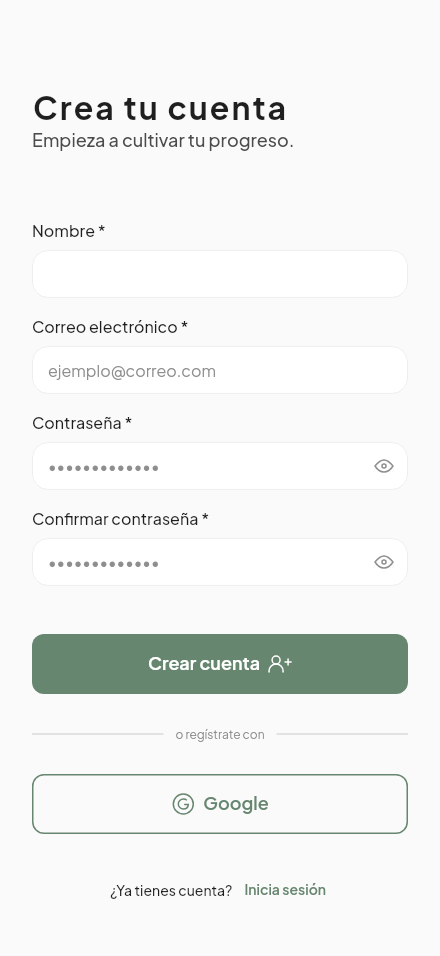
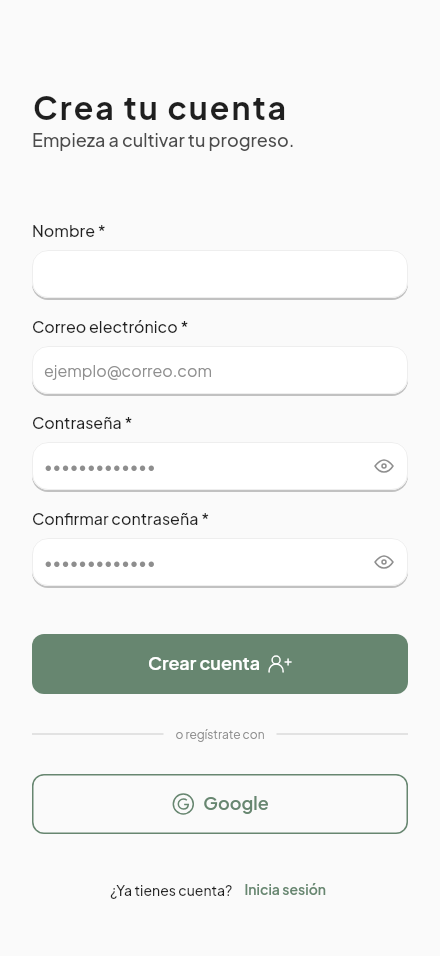
fix: match the Figma input text inset and card shadow
Material's outline gap padding pushed the text 4px right of Figma's 12px
inset, and the border painted Figma's shadow once instead of twice. Shadows/100
now uses the 2px blur Figma actually renders. Regenerates the goldens that
show inputs.

Changed region(s): [[0.0886, 0.364, 0.5023, 0.4247], [0.0886, 0.4854, 0.3545, 0.5157], [0.1182, 0.5764, 0.3545, 0.6067]]

diff --git a/lib/widgets/seedly_input.dart b/lib/widgets/seedly_input.dart
@@ -145,7 +145,8 @@ class _SeedlyInputState extends State<SeedlyInput> {
         ),
         prefixIcon: prefix != null
             ? Padding(
-                padding: const EdgeInsets.only(left: 12, right: 12),
+                // Material adds 4px between the icon and the text.
+                padding: const EdgeInsets.only(left: 12, right: 8),
                 child: SvgPicture.asset(prefix, width: 24, height: 24),
               )
             : null,
@@ -228,15 +229,14 @@ class _SeedlyInputState extends State<SeedlyInput> {
 
 /// Outline border that also paints the Figma drop shadow. Painting it here
 /// keeps the shadow on the input box only, never behind the error message.
+/// There is no label to cut a gap for, so the gap padding Material adds
+/// around the text is 0: the text sits 12px from the edge, as in Figma.
 class _ShadowedOutlineBorder extends OutlineInputBorder {
-  const _ShadowedOutlineBorder({super.borderSide, super.borderRadius});
+  const _ShadowedOutlineBorder({super.borderSide, super.borderRadius})
+    : super(gapPadding: 0);
 
-  static const _shadow = BoxShadow(
-    color: Color(0x1F000000),
-    offset: Offset(0, 2),
-    blurRadius: 4,
-    spreadRadius: -2,
-  );
+  /// Figma's Shadows/100, which it applies twice.
+  static const _shadows = SeedlyShadows.card;
 
   @override
   _ShadowedOutlineBorder copyWith({
@@ -276,21 +276,23 @@ class _ShadowedOutlineBorder extends OutlineInputBorder {
     TextDirection? textDirection,
   }) {
     final box = borderRadius.toRRect(rect);
-    // The fill is already painted, so only draw the shadow outside the box.
+    // The fill is already painted, so only draw the shadows outside the box.
     canvas
       ..save()
       ..clipPath(
         Path.combine(
           PathOperation.difference,
-          Path()..addRect(rect.inflate(_shadow.blurRadius * 2)),
+          Path()..addRect(rect.inflate(_shadows.first.blurRadius * 2)),
           Path()..addRRect(box),
         ),
-      )
-      ..drawRRect(
-        box.shift(_shadow.offset).inflate(_shadow.spreadRadius),
-        _shadow.toPaint(),
-      )
-      ..restore();
+      );
+    for (final shadow in _shadows) {
+      canvas.drawRRect(
+        box.shift(shadow.offset).inflate(shadow.spreadRadius),
+        shadow.toPaint(),
+      );
+    }
+    canvas.restore();
     super.paint(
       canvas,
       rect,

diff --git a/lib/theme/seedly_theme.dart b/lib/theme/seedly_theme.dart
@@ -101,11 +101,13 @@ abstract final class SeedlyPalette {
 /// Figma's drop shadows. Figma applies each effect twice, so they are
 /// stacked twice here too.
 abstract final class SeedlyShadows {
+  // Figma lists Shadows/100 as radius 4, spread -2, but what it renders (and
+  // what its code export says, a 2px drop-shadow filter) matches a 2px blur
+  // with no spread: measured on the Input and Avatar of "Perfil - Información".
   static const _card = BoxShadow(
     color: SeedlyPalette.shadow,
     offset: Offset(0, 2),
-    blurRadius: 4,
-    spreadRadius: -2,
+    blurRadius: 2,
   );
   static const _tag = BoxShadow(
     color: SeedlyPalette.shadow,
